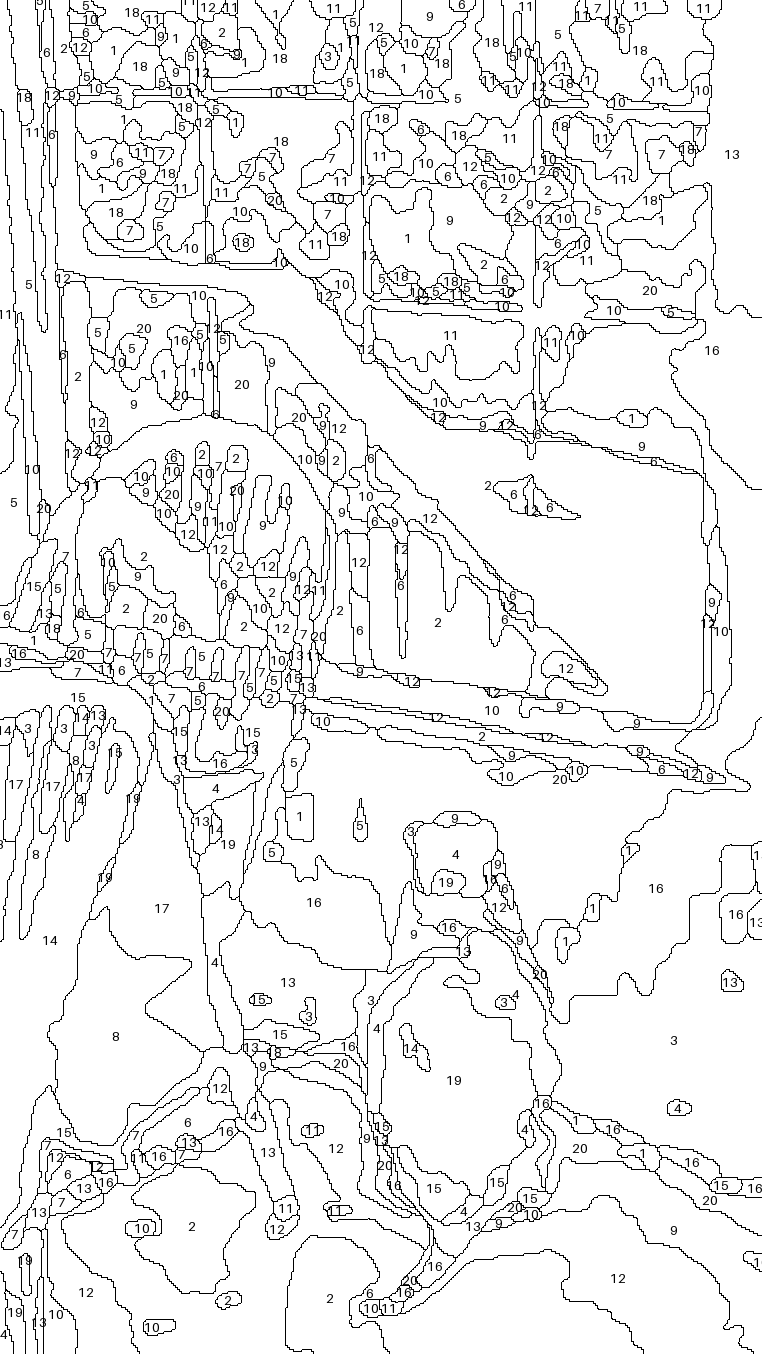
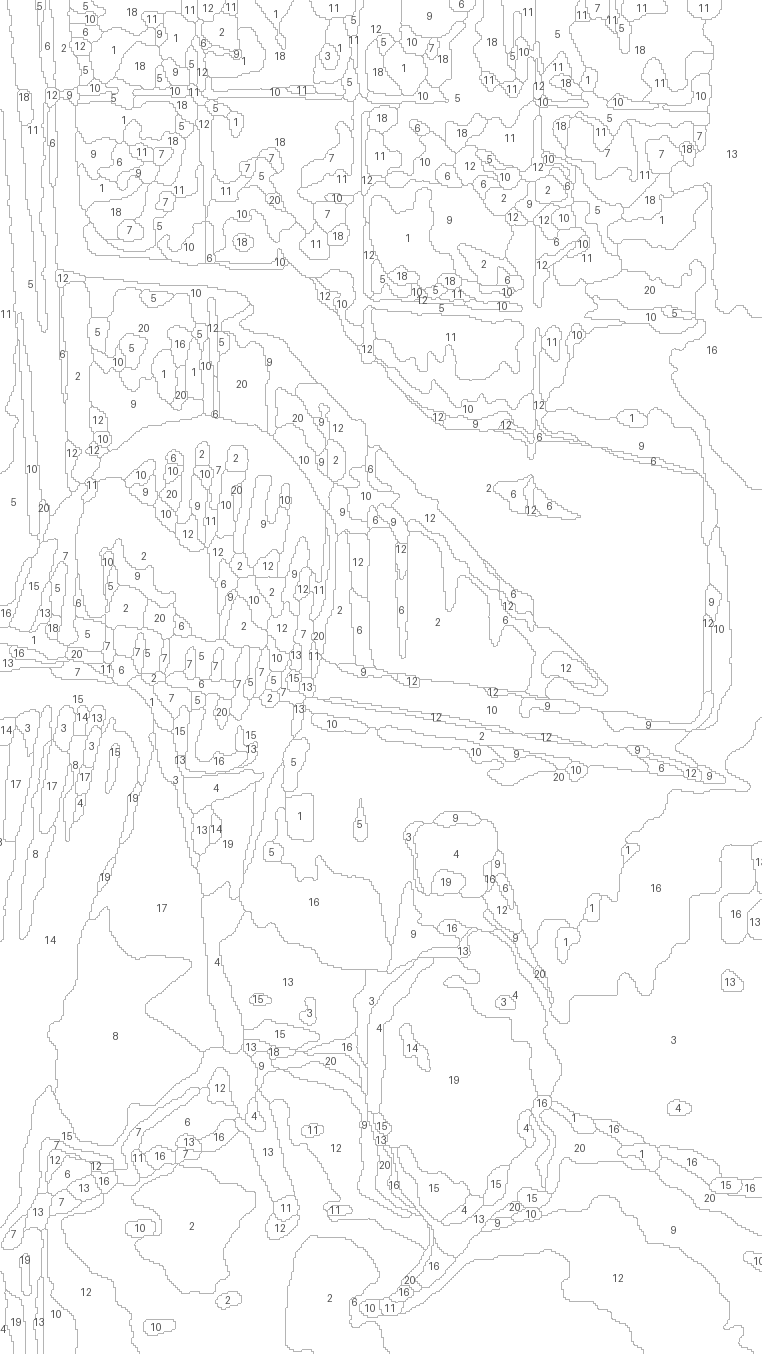
[paint_by_numbers] Update final template
So it does not show in the final painting.
Instead of black, use:
- light gray for the edges
- dark gray for the numbers

diff --git a/tool_box/paint_by_numbers/main.py b/tool_box/paint_by_numbers/main.py
@@ -338,7 +338,7 @@ def render_paint_by_number(image_shape, edge_mask, regions, comp_map, font_size)
     """
     H, W = image_shape[:2]
     canvas_arr = np.full((H, W, 3), 255, dtype=np.uint8)
-    canvas_arr[edge_mask] = [0, 0, 0]
+    canvas_arr[edge_mask] = [180, 180, 180]
     canvas = Image.fromarray(canvas_arr)
     draw = ImageDraw.Draw(canvas)
     font = ImageFont.load_default(size=font_size)
@@ -352,7 +352,7 @@ def render_paint_by_number(image_shape, edge_mask, regions, comp_map, font_size)
         row, col = _find_label_position(
             comp_map, region["comp_id"], centroid_row, centroid_col, tw, th
         )
-        draw.text((col, row), text, fill=(0, 0, 0), font=font, anchor="mm")
+        draw.text((col, row), text, fill=(80, 80, 80), font=font, anchor="mm")
 
     return canvas
 